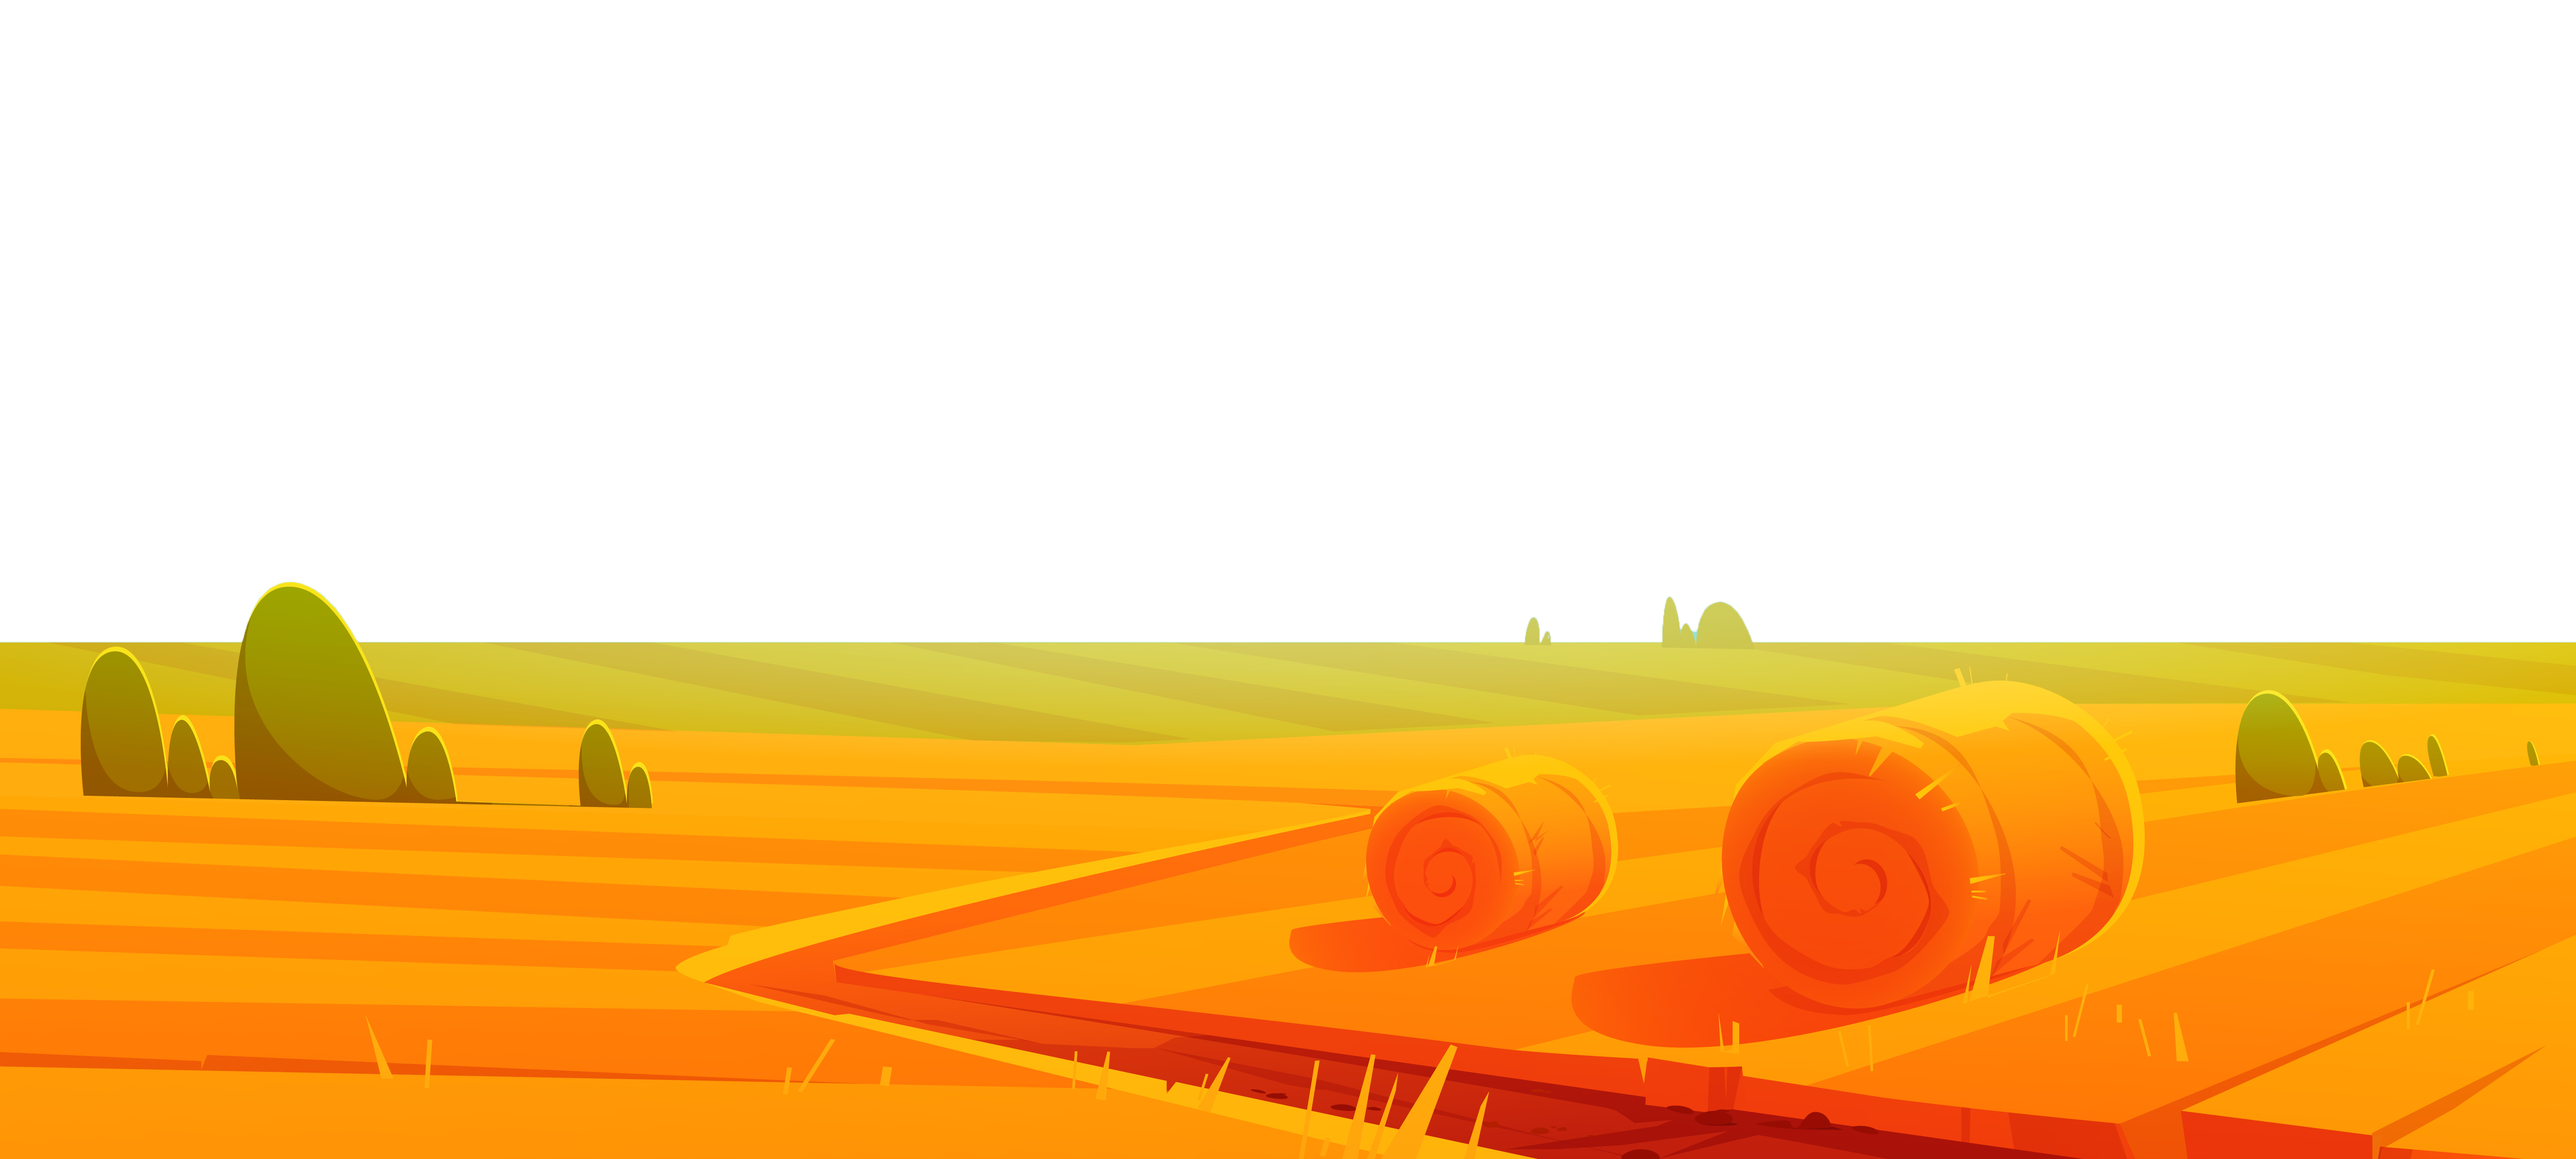
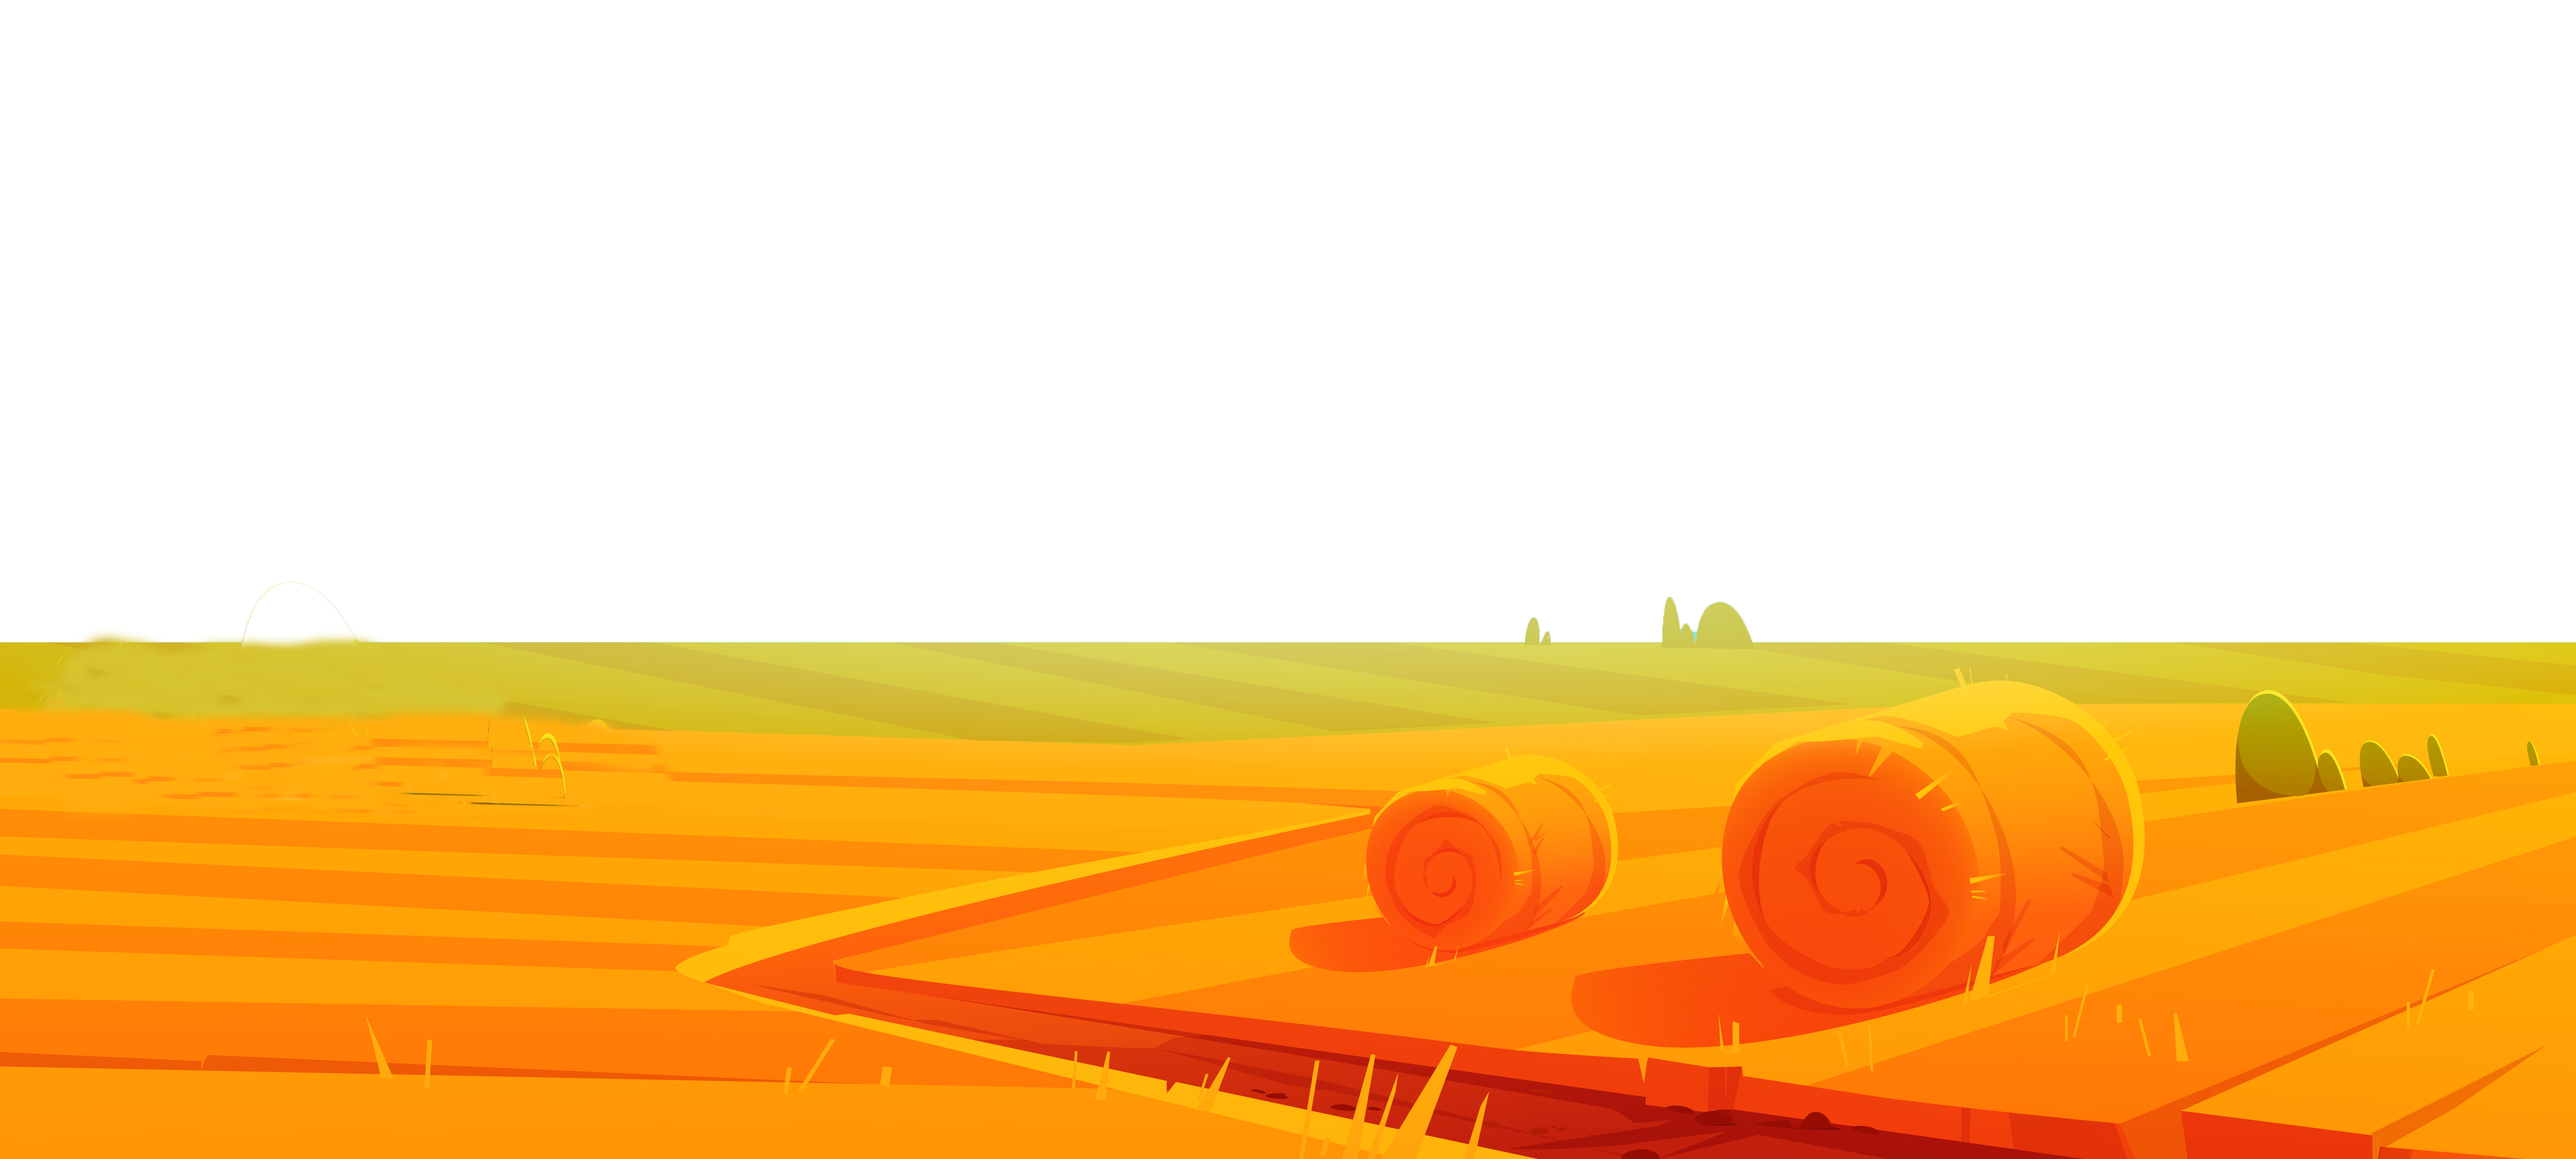
up

Changed region(s): [[0.0, 0.4978, 0.2805, 0.7156]]

diff --git a/Mission2_VanillaJS/script.js b/Mission2_VanillaJS/script.js
@@ -1,9 +1,27 @@
+/*
+Tugas   : mission2_webdev
+Nama    : Syahda Afia Dhiya Ulhaq Tajudin
+NIM     : 201524030
+Kelas   : D4-3A
+File    : javascript
+*/
+
+window.onload = () => {
+  startSetTimeoutAnimation();
+  startAnimFrameAnimation();
+  startSetTimeoutAnimation2();
+  startAnimFrameAnimation2();
+  startSetTimeoutAnimation3();
+  startAnimFrameAnimation3();
+  myMove();
+};
+
 function myMove() {
     let id = null;
     const elem = document.getElementById("sun");   
     let pos = 0;
     clearInterval(id);
-    id = setInterval(frame, 100);
+    id = setInterval(frame, 50);
     function frame() {
       if (pos == 350) {
         clearInterval(id);
@@ -14,17 +32,11 @@ function myMove() {
       }
     }
 }
-myMove();
-
-window.onload = () => {
-    startSetTimeoutAnimation();
-    startAnimFrameAnimation();
-  };
   
   function startSetTimeoutAnimation() {
     const refreshRate = 1000 / 60;
     const maxXPosition = 400;
-    let rect = document.getElementById('cow');
+    let rect = document.getElementById('tractor');
     let speedX = 1;
     let positionX = 0;
   
@@ -39,8 +51,8 @@ window.onload = () => {
   
   function startAnimFrameAnimation() {
     const refreshRate = 1000 / 60;
-    const maxXPosition = 800;
-    let rect = document.getElementById('cow');
+    const maxXPosition = 400;
+    let rect = document.getElementById('tractor');
     let speedX = 1;
     let positionX = 0;
   
@@ -54,4 +66,75 @@ window.onload = () => {
     }
   
     window.requestAnimationFrame(step);
+  }
+
+  
+  function startSetTimeoutAnimation2() {
+    const refreshRate = 1000 / 60;
+    const maxXPosition = 100;
+    let rect = document.getElementById('grass');
+    let speedX = 1;
+    let positionX = 5;
+  
+    window.setInterval(() => {
+      positionX = positionX + speedX;
+      if (positionX > maxXPosition || positionX < 0) {
+        speedX = speedX * (-1);
+      }
+      rect.style.left = positionX + 'px';
+    }, refreshRate);
+  }
+  
+  function startAnimFrameAnimation2() {
+    const refreshRate = 1000 / 60;
+    const maxXPosition = 100;
+    let rect = document.getElementById('grass');
+    let speedX = 0.5;
+    let positionX = 5;
+  
+    function step2() {
+      positionX = positionX + speedX;
+      if (positionX > maxXPosition || positionX < 0) {
+        speedX = speedX * (-1);
+      }
+      rect.style.left = positionX + 'px';
+      window.requestAnimationFrame(step2);
+    }
+  
+    window.requestAnimationFrame(step2);
+  }
+
+  function startSetTimeoutAnimation3() {
+    const refreshRate = 1000 / 60;
+    const maxXPosition = 10;
+    let rect = document.getElementById('bird');
+    let speedX = 1;
+    let positionX = 0;
+  
+    window.setInterval(() => {
+      positionX = positionX + speedX;
+      if (positionX > maxXPosition || positionX < 0) {
+        speedX = speedX * (-1);
+      }
+      rect.style.left = positionX + 'px';
+    }, refreshRate);
+  }
+  
+  function startAnimFrameAnimation3() {
+    const refreshRate = 1000 / 60;
+    const maxXPosition = 10;
+    let rect = document.getElementById('bird');
+    let speedX = 1;
+    let positionX = 0;
+  
+    function step3() {
+      positionX = positionX + speedX;
+      if (positionX > maxXPosition || positionX < 0) {
+        speedX = speedX * (-1);
+      }
+      rect.style.left = positionX + 'px';
+      window.requestAnimationFrame(step3);
+    }
+  
+    window.requestAnimationFrame(step3);
   }

diff --git a/Mission2_VanillaJS/style.css b/Mission2_VanillaJS/style.css
@@ -1,3 +1,11 @@
+/*
+Tugas   : mission2_webdev
+Nama    : Syahda Afia Dhiya Ulhaq Tajudin
+NIM     : 201524030
+Kelas   : D4-3A
+File    : css
+*/
+
 *{
     margin: 0;
     padding: 0;
@@ -25,11 +33,29 @@
     cursor: pointer;
 }
 
-#cow{
+#tractor{
     position: absolute;
-    top: 150px;
-    left: 550px;
-    width: 200px;
+    top: 20px;
+    left: 0px;
+    width: 600px;
+    height: 450px;
+    cursor: pointer;
+}
+
+#grass{
+    position: absolute;
+    top: 60px;
+    left: 30px;
+    width: 1000px;
+    height: 500px;
+    cursor: pointer;
+    z-index: 10000;
+}
+
+#bird{
+    position: absolute;
+    left: 800px;
+    width: 500px;
     height: 200px;
     cursor: pointer;
 }
@@ -121,4 +147,29 @@
         transform: translateX(400%) scale(1.5);
     }
 }
+
+.textbox{
+    margin-top: 10px;
+    max-width: 400px;
+    background-color: #e8ecef;
+    padding: 5px 5px;
+    left: 800px;
+    top: 100px;
+    opacity: 0.6;
+    position: relative;
+  }
+
+  .textbox2{
+    height: 125px;
+    width: 5px;
+    background-color: maroon;
+    left: 800px;
+    top: -23px;
+    position: relative;
+  }
+  
+  .textbox p {
+    margin: 5%;
+    color: #000000;
+  }
 

diff --git a/Mission2_VanillaJS/index.html b/Mission2_VanillaJS/index.html
@@ -1,3 +1,11 @@
+ <!--
+    Tugas   : mission2_webdev
+    Nama    : Syahda Afia Dhiya Ulhaq Tajudin
+    NIM     : 201524030
+    Kelas   : D4-3A
+    File    : html
+ --> 
+
 <!DOCTYPE html>
 <html>
 <head>
@@ -9,16 +17,21 @@
 <body >
   <div id="container">
     <div id="sun"></div>
+    <img src ="Assets/grass.png" id="grass">
+    <img src ="Assets/traktor2.png" id="tractor">
+    <img src ="Assets/bird.png" id="bird">
     <img src ="Assets/field.png" class="field">
-    <div id="cow">
-      <img src="Assets/cow.png">
-    </div>
     <img src="Assets/fog.png" class="fog1">
     <img src="Assets/fog.png" class="fog2">
     <img src="Assets/fog.png" class="fog3">
     <img src="Assets/fog.png" class="fog4">
     <img src="Assets/fog.png" class="fog5">
     <img src="Assets/fog.png" class="fog6">
+    <div class="textbox">
+      <p>Inilah ladang kita, ada traktor yang berjalan setiap hari dan ada juga rumput yang bergoyang disertai kabut. 
+        Dengan luas mencapai <b>3.257.483 kilometer persegi,</b> ladang ini menjadi teras Indonesia.</p>
+    </div>
+    <div class="textbox2"></div>
   </div>
 
       <script src="script.js"> </script>
